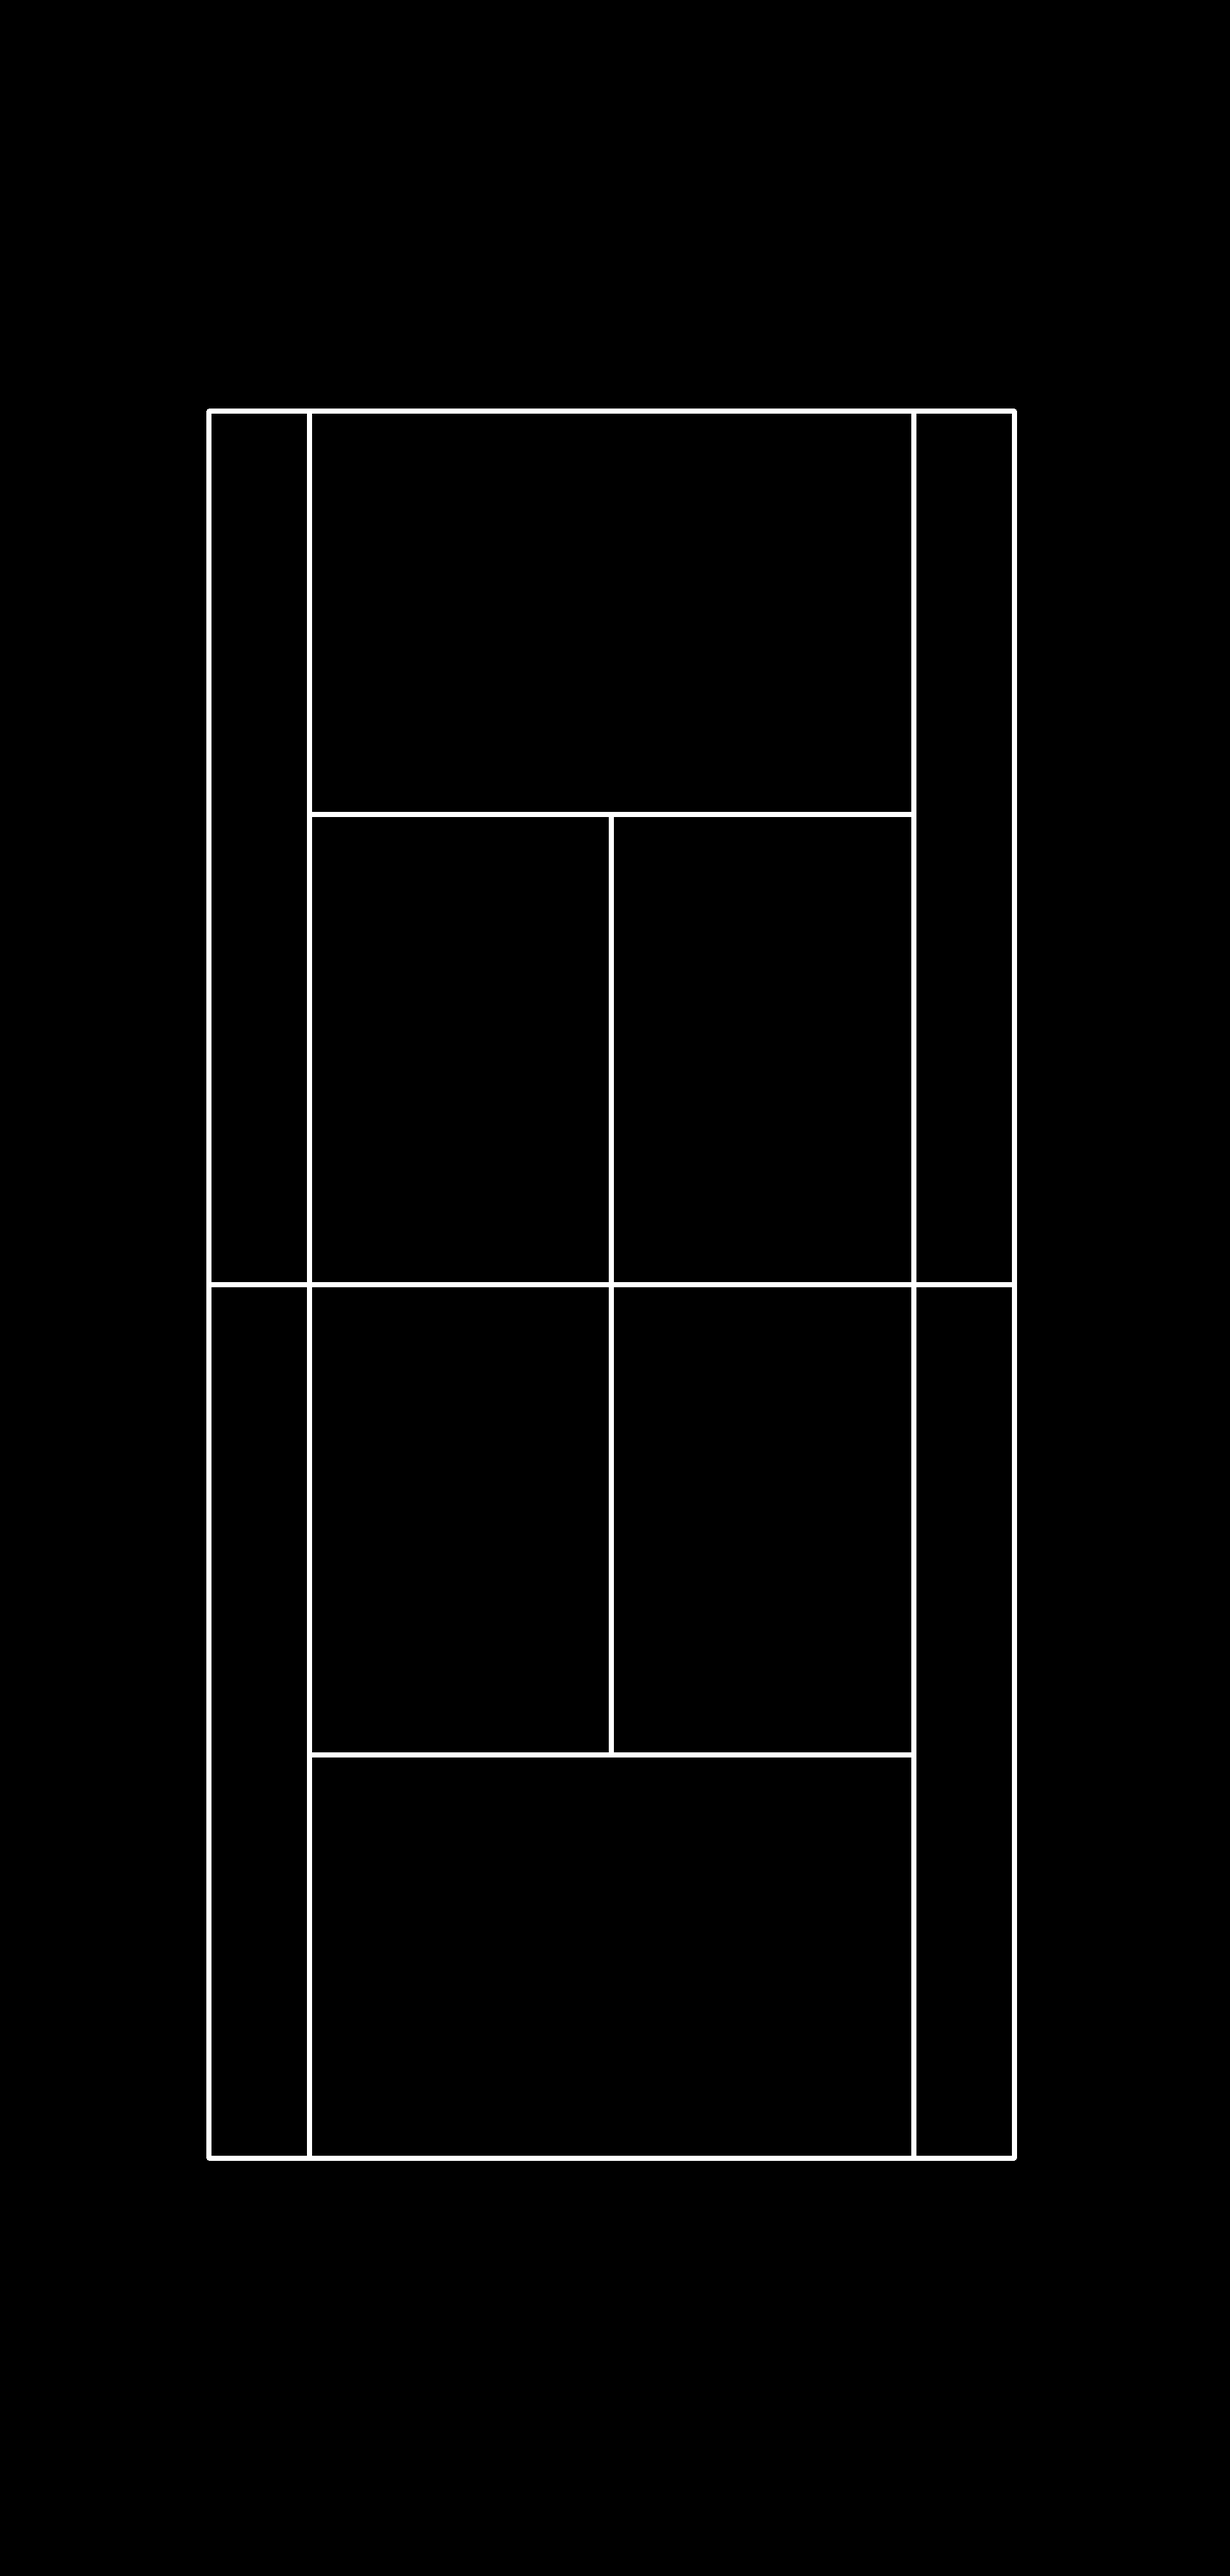
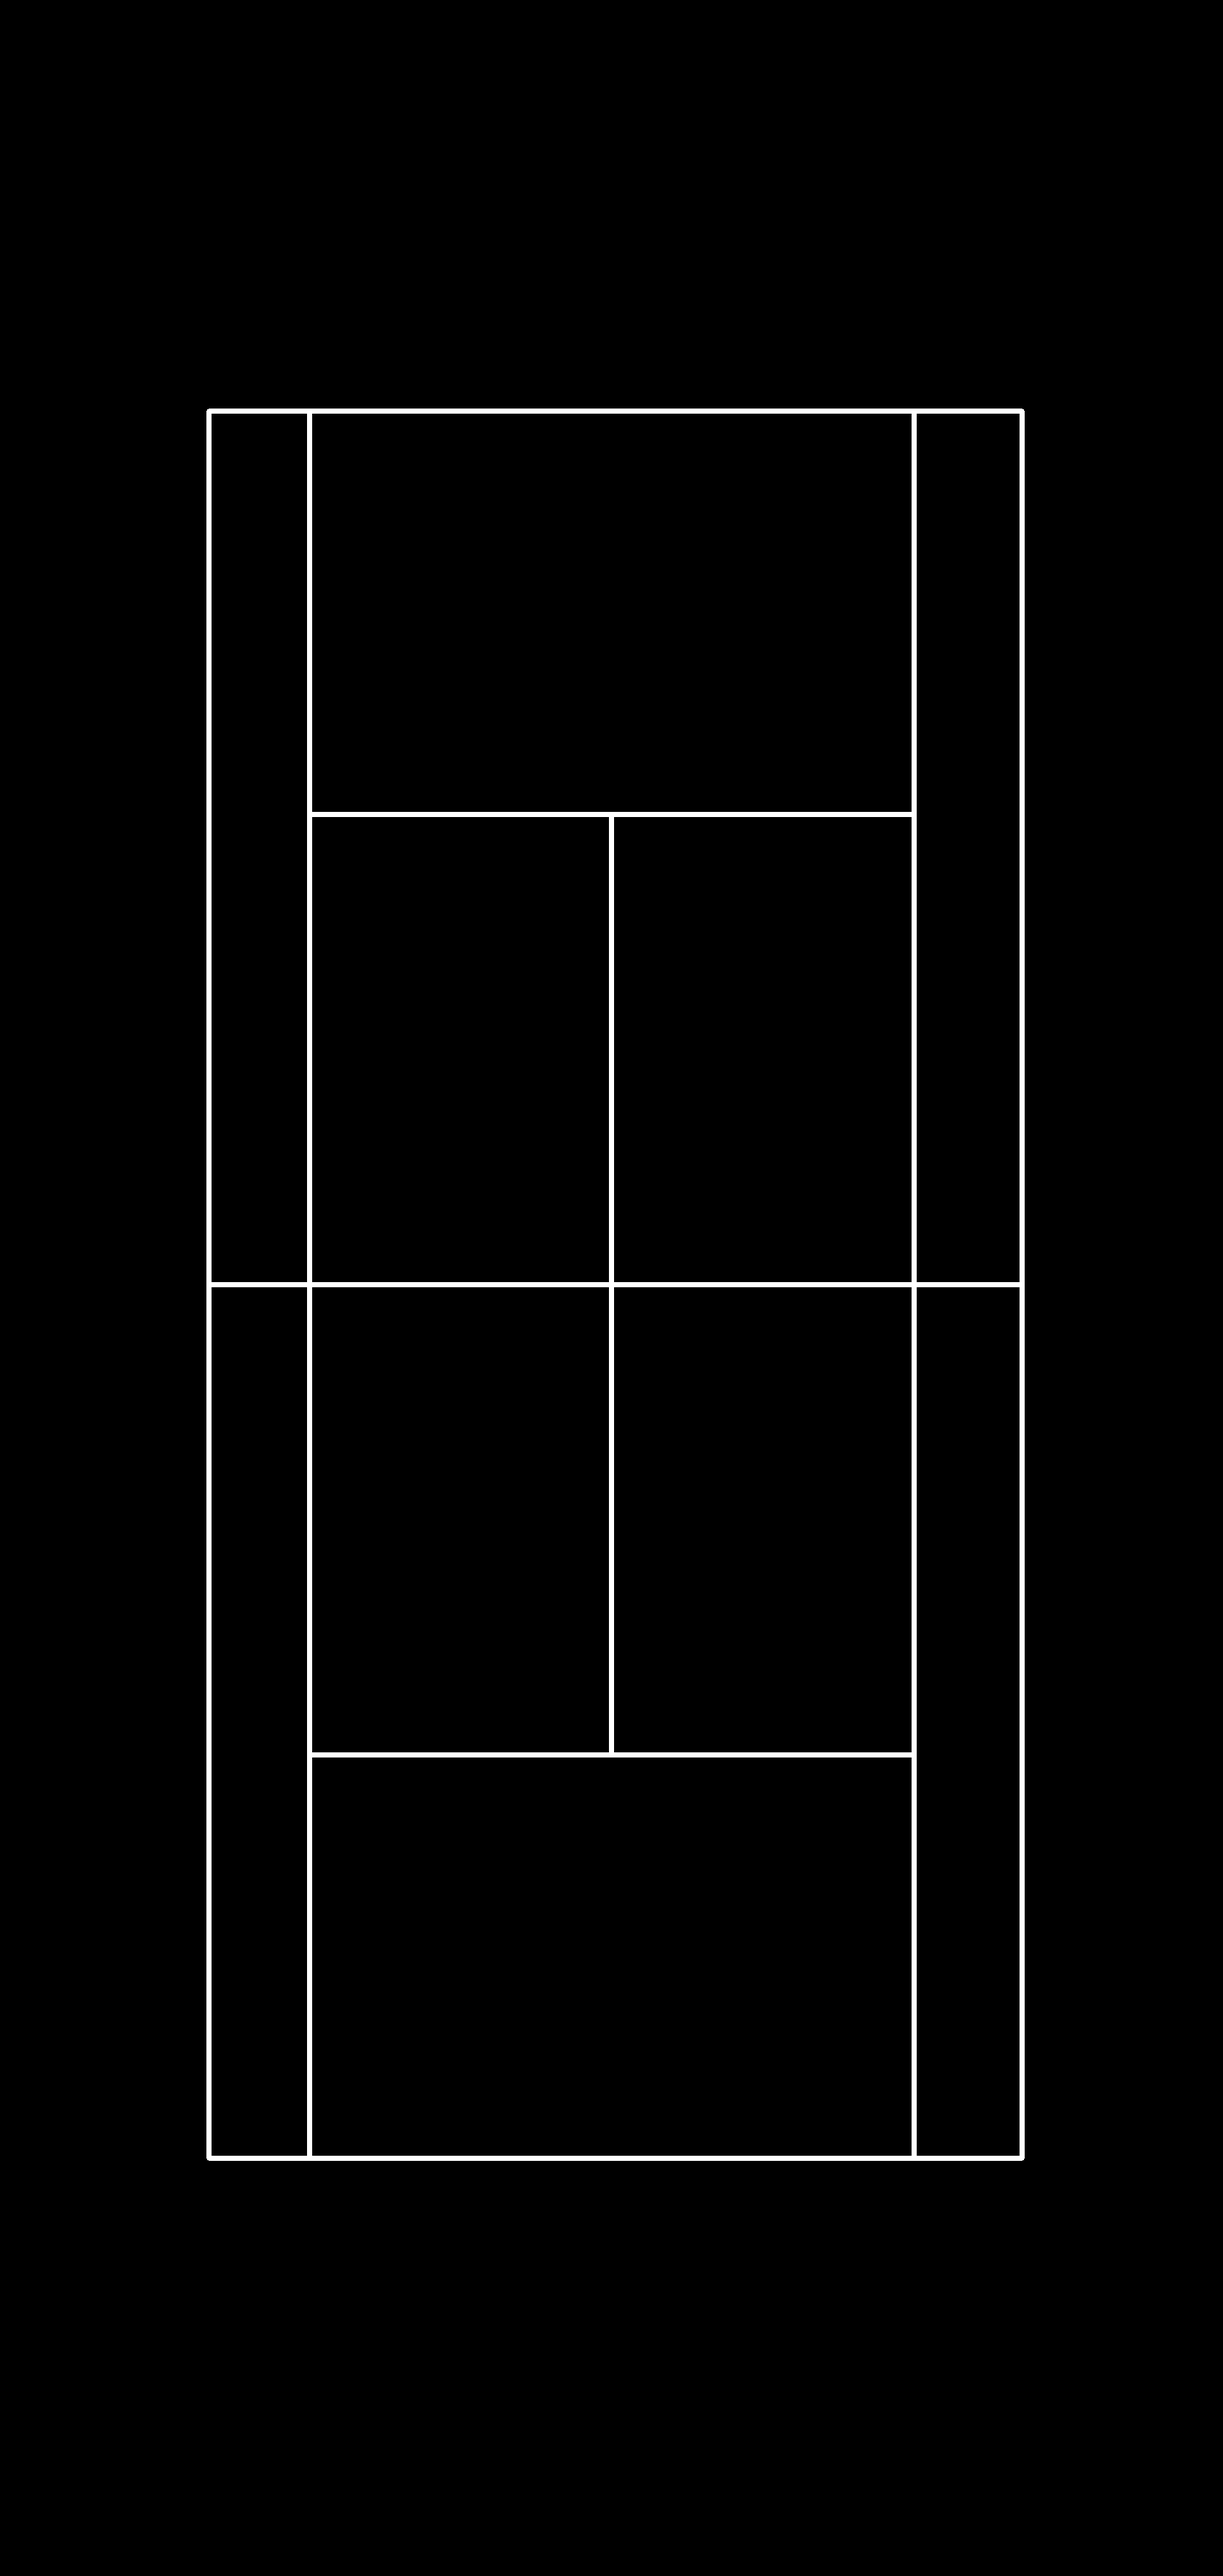
fixed small part of reference court

Changed region(s): [[0.812, 0.1554, 0.8432, 0.8394], [0.7183, 0.1554, 0.7495, 0.8394], [0.4685, 0.342, 0.4997, 0.684]]

diff --git a/src/court_reference.py b/src/court_reference.py
@@ -36,14 +36,14 @@ class CourtReference:
                                 self.bottom_inner_line[1]],
                            12: [*self.bottom_inner_line, self.left_inner_line[1], self.right_inner_line[1]]}
         self.line_width = 5
-        self.court_width = 1127
+        self.court_width = 1117
         self.court_height = 2408
         self.top_bottom_border = 549
         self.right_left_border = 274
         self.court = cv2.cvtColor(cv2.imread('court_configurations/court_reference.png'), cv2.COLOR_BGR2GRAY)
 
     def build_court_reference(self):
-        court = np.zeros((self.court_height, self.court_width), dtype=np.int)
+        court = np.zeros((self.court_height + 2 * self.top_bottom_border, self.court_width + 2 * self.right_left_border), dtype=np.int)
         cv2.line(court, *self.baseline_top, 1, self.line_width)
         cv2.line(court, *self.baseline_bottom, 1, self.line_width)
         cv2.line(court, *self.net, 1, self.line_width)
@@ -54,8 +54,6 @@ class CourtReference:
         cv2.line(court, *self.left_inner_line, 1, self.line_width)
         cv2.line(court, *self.right_inner_line, 1, self.line_width)
         cv2.line(court, *self.middle_line, 1, self.line_width)
-        court = cv2.copyMakeBorder(court, self.top_bottom_border, self.top_bottom_border, self.right_left_border,
-                                   self.right_left_border, cv2.BORDER_CONSTANT, value=0)
 
         plt.imsave('court_configurations/court_reference.png', court, cmap='gray')
         self.court = court
@@ -73,3 +71,8 @@ class CourtReference:
             for p in conf:
                 c = cv2.circle(c, p, 15, (0, 0, 255), 30)
             cv2.imwrite(f'court_configurations/court_conf_{i}.png', c)
+
+
+if __name__ == '__main__':
+    c = CourtReference()
+    c.build_court_reference()

diff --git a/src/process.py b/src/process.py
@@ -7,6 +7,7 @@ from detection import DetectionModel
 from pose import PoseExtractor
 from smooth import Smooth
 from utils import get_video_properties, get_dtype, get_stickman_line_connection
+from court_detection import CourtDetector
 
 
 def add_data_to_video(input_video, df, show_video, with_frame, output_folder,
@@ -118,6 +119,7 @@ def video_process(video_path, show_video=False, include_video=True,
     dtype = get_dtype()
 
     # initialize extractors
+    court_detector = CourtDetector()
     detection_model = DetectionModel(dtype=dtype)
     pose_extractor = PoseExtractor(person_num=1, box=stickman_box, dtype=dtype) if stickman else None
 
@@ -144,6 +146,10 @@ def video_process(video_path, show_video=False, include_video=True,
         frame_i += 1
 
         if ret:
+            if frame_i == 1:
+                court_detector.detect(frame)
+            else:
+                frame = court_detector.add_court_overlay(frame, overlay_color=(0,0,255))
             # initialize landmarks lists
             stickman_marks = np.zeros_like(frame)
 
@@ -196,6 +202,7 @@ def video_process(video_path, show_video=False, include_video=True,
         add_data_to_video(video_path, df_smooth, show_video, 2, output_folder,
                           smoothing_output_file, get_stickman_line_connection())
 
+
 s= time.time()
-video_process(video_path='../videos/vid7.mp4', show_video=True, stickman=False, stickman_box=False, smoothing=False)
+video_process(video_path='../videos/vid1.mp4', show_video=True, stickman=False, stickman_box=False, smoothing=False)
 print(time.time() - s)

diff --git a/src/court_detection.py b/src/court_detection.py
@@ -217,9 +217,11 @@ class CourtDetector:
         w_p = np.sum(wrong)
         return c_p - 0.5 * w_p
 
-    def add_court_overlay(self, frame, homography, overlay_color=(255, 255, 255)):
+    def add_court_overlay(self, frame, homography=None, overlay_color=(255, 255, 255)):
+        if homography is None and self.court_warp_matrix is not None:
+            homography = self.court_warp_matrix
         court = cv2.warpPerspective(self.court_reference.court, homography, frame.shape[1::-1])
-        frame[court == 255, :] = overlay_color
+        frame[court > 0, :] = overlay_color
         return frame
 
     def find_lines_location(self):
